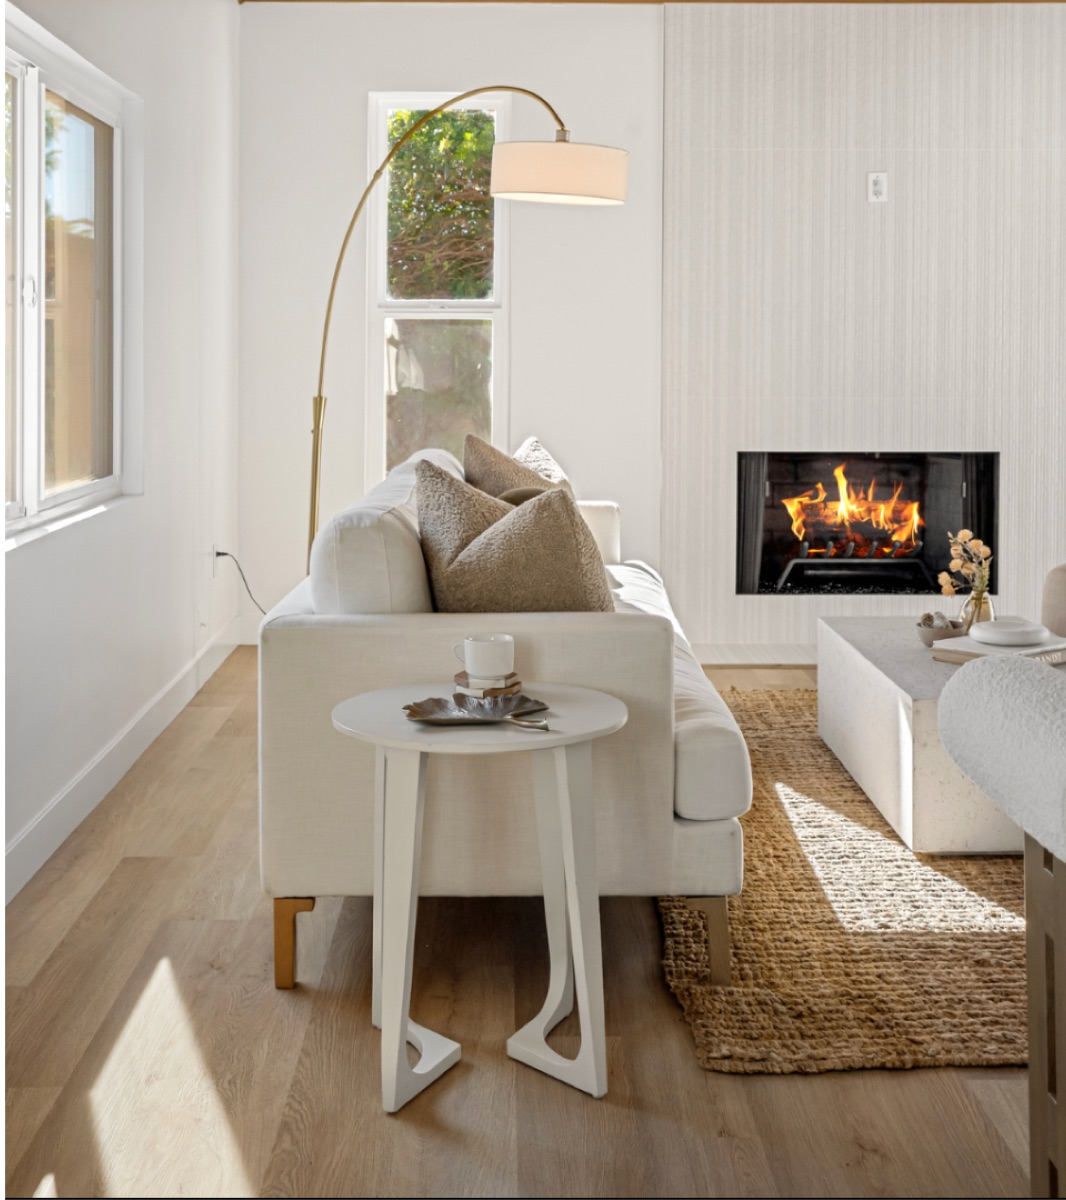
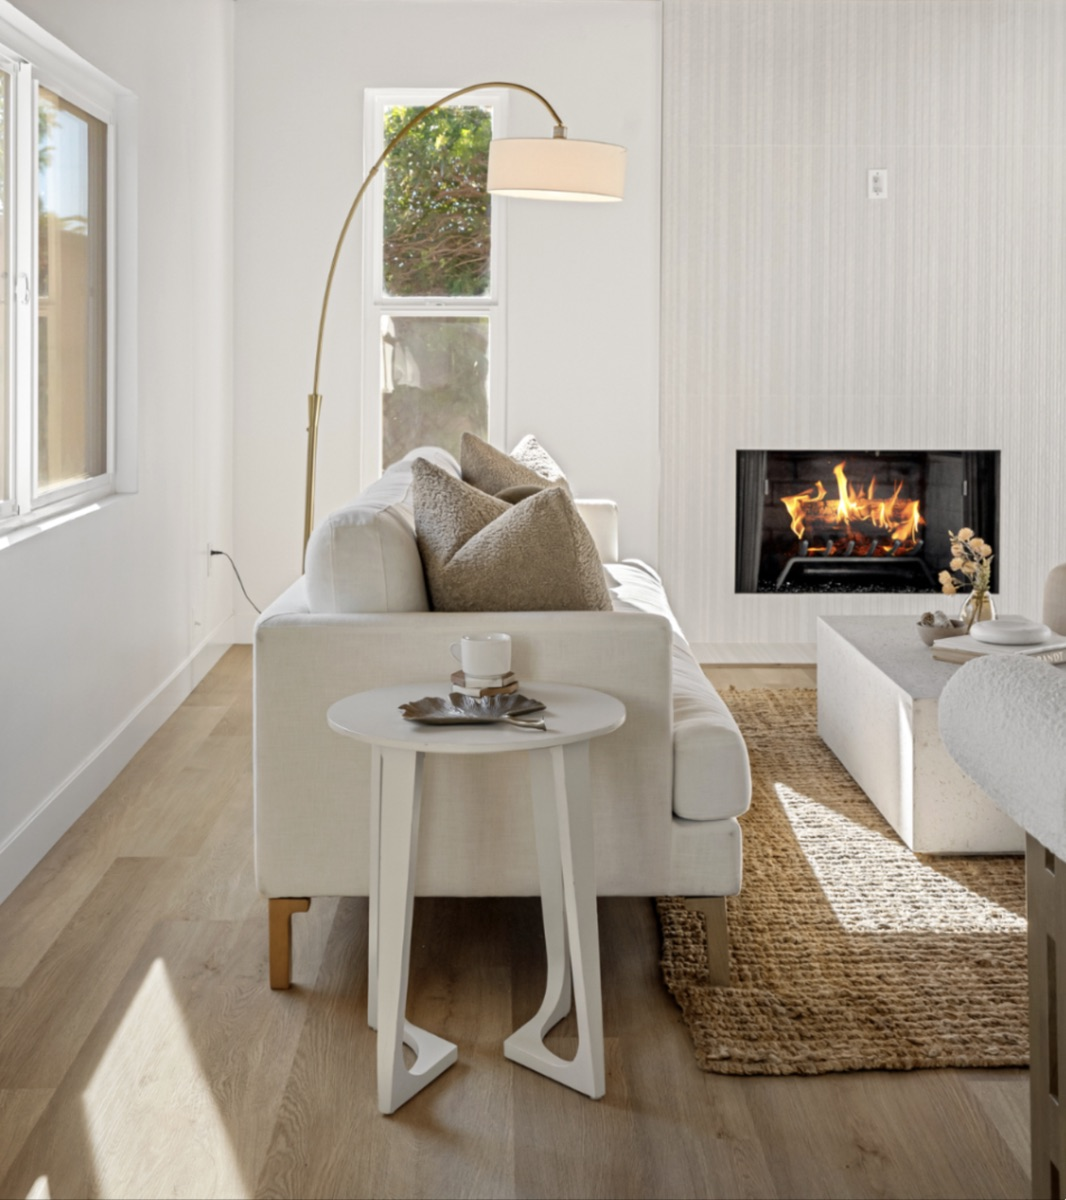
Update before/after slider with new property photos
Replace slider images with new before (empty room) and after (staged
living room with fireplace) photos. Fix label/image assignment so
before shows on left and after shows on right.

diff --git a/index.html b/index.html
@@ -4388,13 +4388,12 @@
             </div>
             <div class="metrics-right">
                 <div class="before-after-slider" id="beforeAfterSlider">
-                    <img src="staging-after.jpg" alt="After staging" class="before-image">
-                    <img src="staging-before.jpg" alt="Before staging" class="after-image">
+                    <img src="staging-before.jpg" alt="Before staging" class="before-image">
+                    <img src="staging-after.jpg" alt="After staging" class="after-image">
                     <div class="slider-handle" id="sliderHandle"></div>
-                    <span class="slider-label before">After</span>
-                    <span class="slider-label after">Before</span>
+                    <span class="slider-label before">Before</span>
+                    <span class="slider-label after">After</span>
                 </div>
-                <p style="text-align: center; font-size: 0.875rem; color: var(--color-text-secondary); margin-top: 12px;">6056 Winfield Ave, La Mesa, CA</p>
             </div>
         </div>
     </section>
